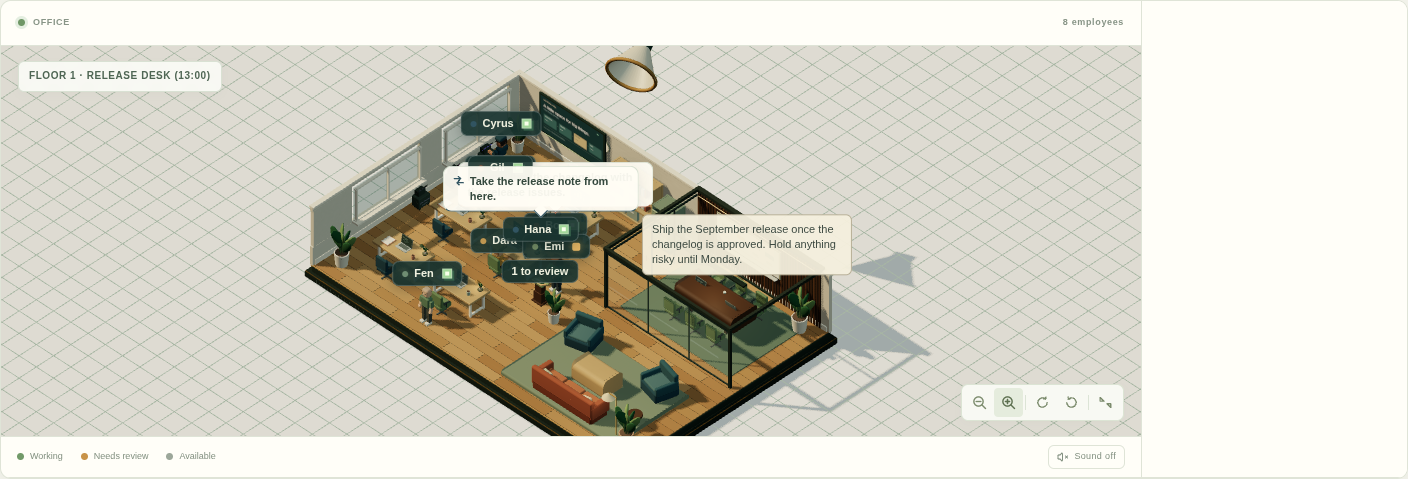
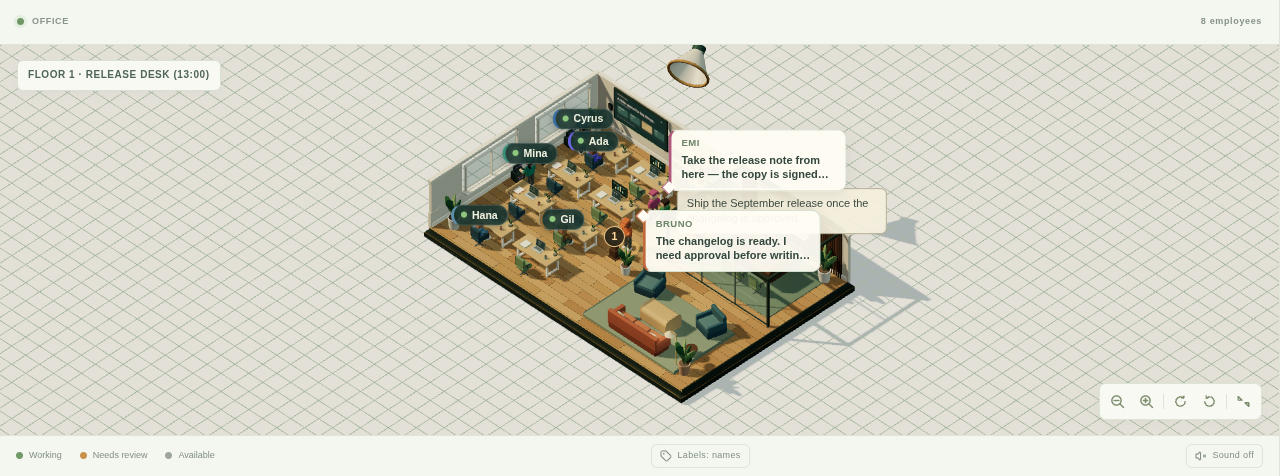
Dock the replay bar and pin the phone stage to its 4:3 box

diff --git a/components/office/office.css b/components/office/office.css
@@ -197,12 +197,16 @@
   display: none;
 }
 
-/* The speaker toggle lives in the office legend. */
-.office-sound {
+/* The sound and label toggles sit together at the end of the office legend. */
+.office-labels {
+  margin-left: auto;
+}
+
+.office-sound,
+.office-labels {
   display: inline-flex;
   align-items: center;
   gap: 5px;
-  margin-left: auto;
   padding: 4px 8px;
   border: 1px solid var(--line);
   border-radius: 6px;
@@ -214,12 +218,14 @@
   cursor: pointer;
 }
 
-.office-sound:hover {
+.office-sound:hover,
+.office-labels:hover {
   border-color: #b8c8a8;
   color: #5d7050;
 }
 
-.office-sound[aria-pressed='true'] {
+.office-sound[aria-pressed='true'],
+.office-labels[data-mode='names'] {
   border-color: #aec1a2;
   background: #eef3e8;
   color: #4f6644;

diff --git a/components/floors/floors.css b/components/floors/floors.css
@@ -545,11 +545,19 @@
 }
 
 @media (max-width: 620px) {
-  /* A phone gets the whole width and a 4:3 stage, so the room has room. */
+  /* A phone gets the whole width and a 4:3 stage, so the room has room. The
+     view is pinned to that box, since a percentage height cannot resolve
+     against an aspect ratio. */
   .floor-canvas .floor-stage {
+    position: relative;
     height: auto;
     min-height: 0;
     aspect-ratio: 4 / 3;
+  }
+  .floor-canvas .floor-stage > .office-view {
+    position: absolute;
+    inset: 0;
+    min-height: 0;
   }
   .office-toolbar {
     height: auto;

diff --git a/components/office/office-stations.ts b/components/office/office-stations.ts
@@ -74,7 +74,7 @@ export function homeStations(count: number): Station[] {
 }
 
 /** Yaw that makes a figure at `from` look at `to`. */
-export function facing(from: Point, to: Point): number {
+function facing(from: Point, to: Point): number {
   return Math.atan2(to[0] - from[0], to[2] - from[2]);
 }
 

diff --git a/components/floors/floor-scene.tsx b/components/floors/floor-scene.tsx
@@ -82,7 +82,8 @@ export function FloorScene({
         </span>
         <button
           type="button"
-          className="office-sound"
+          className="office-labels"
+          data-mode={labels.mode}
           title={LABEL_TITLE[labels.mode]}
           onClick={labels.cycle}
         >
